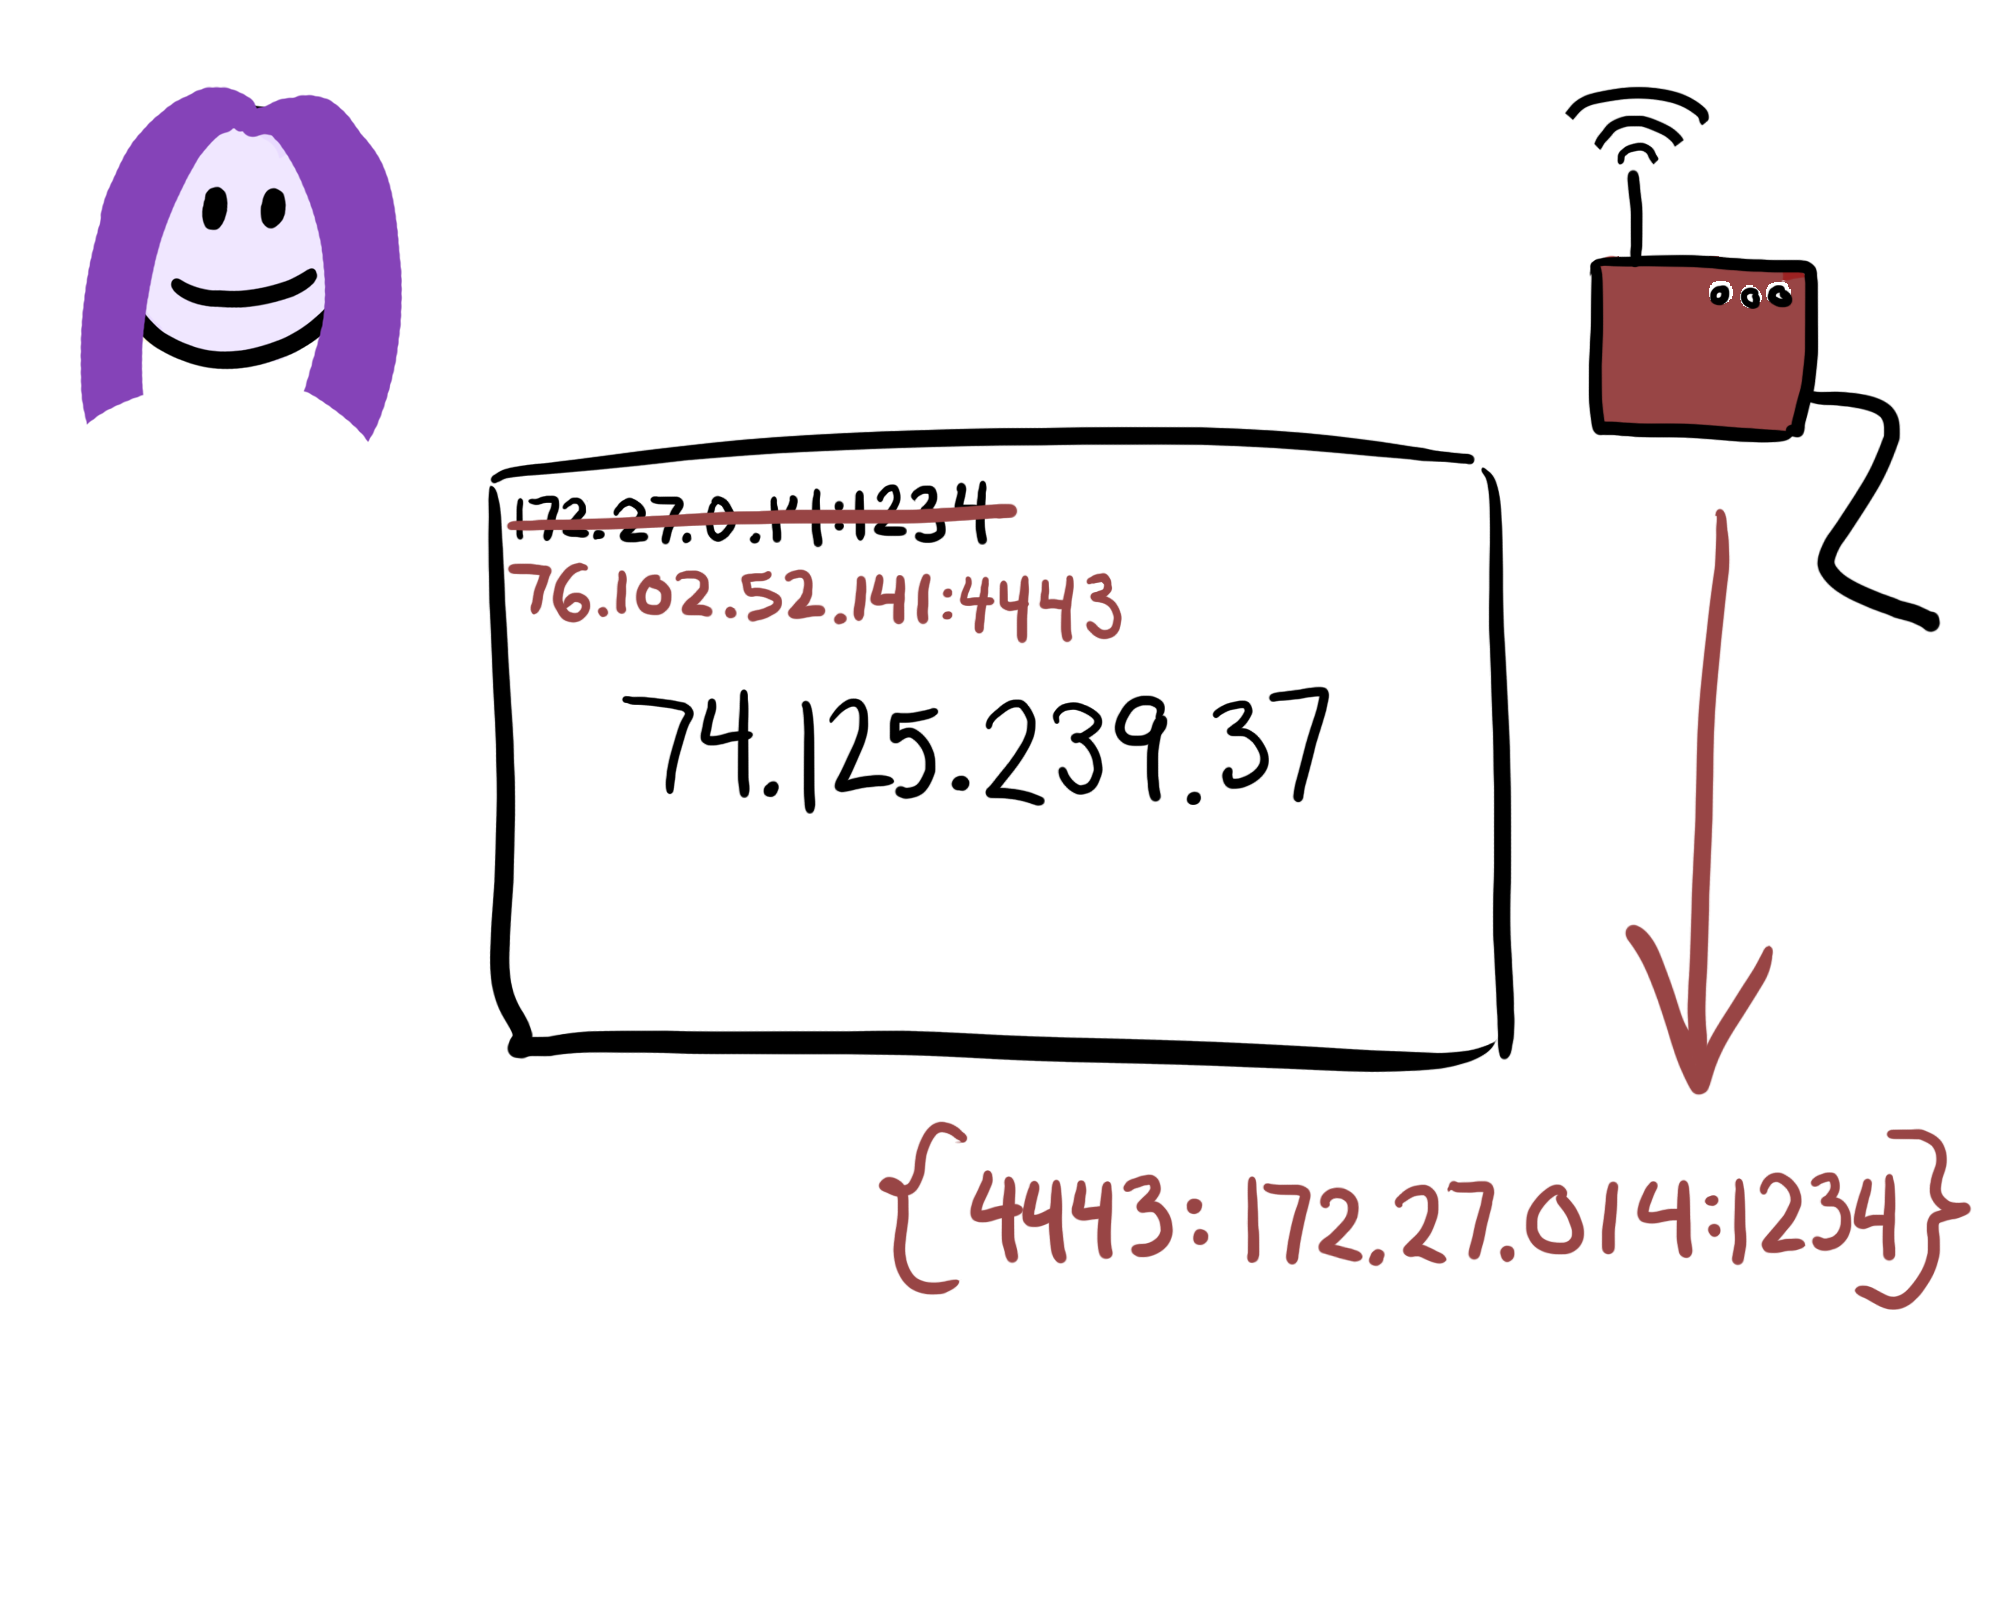
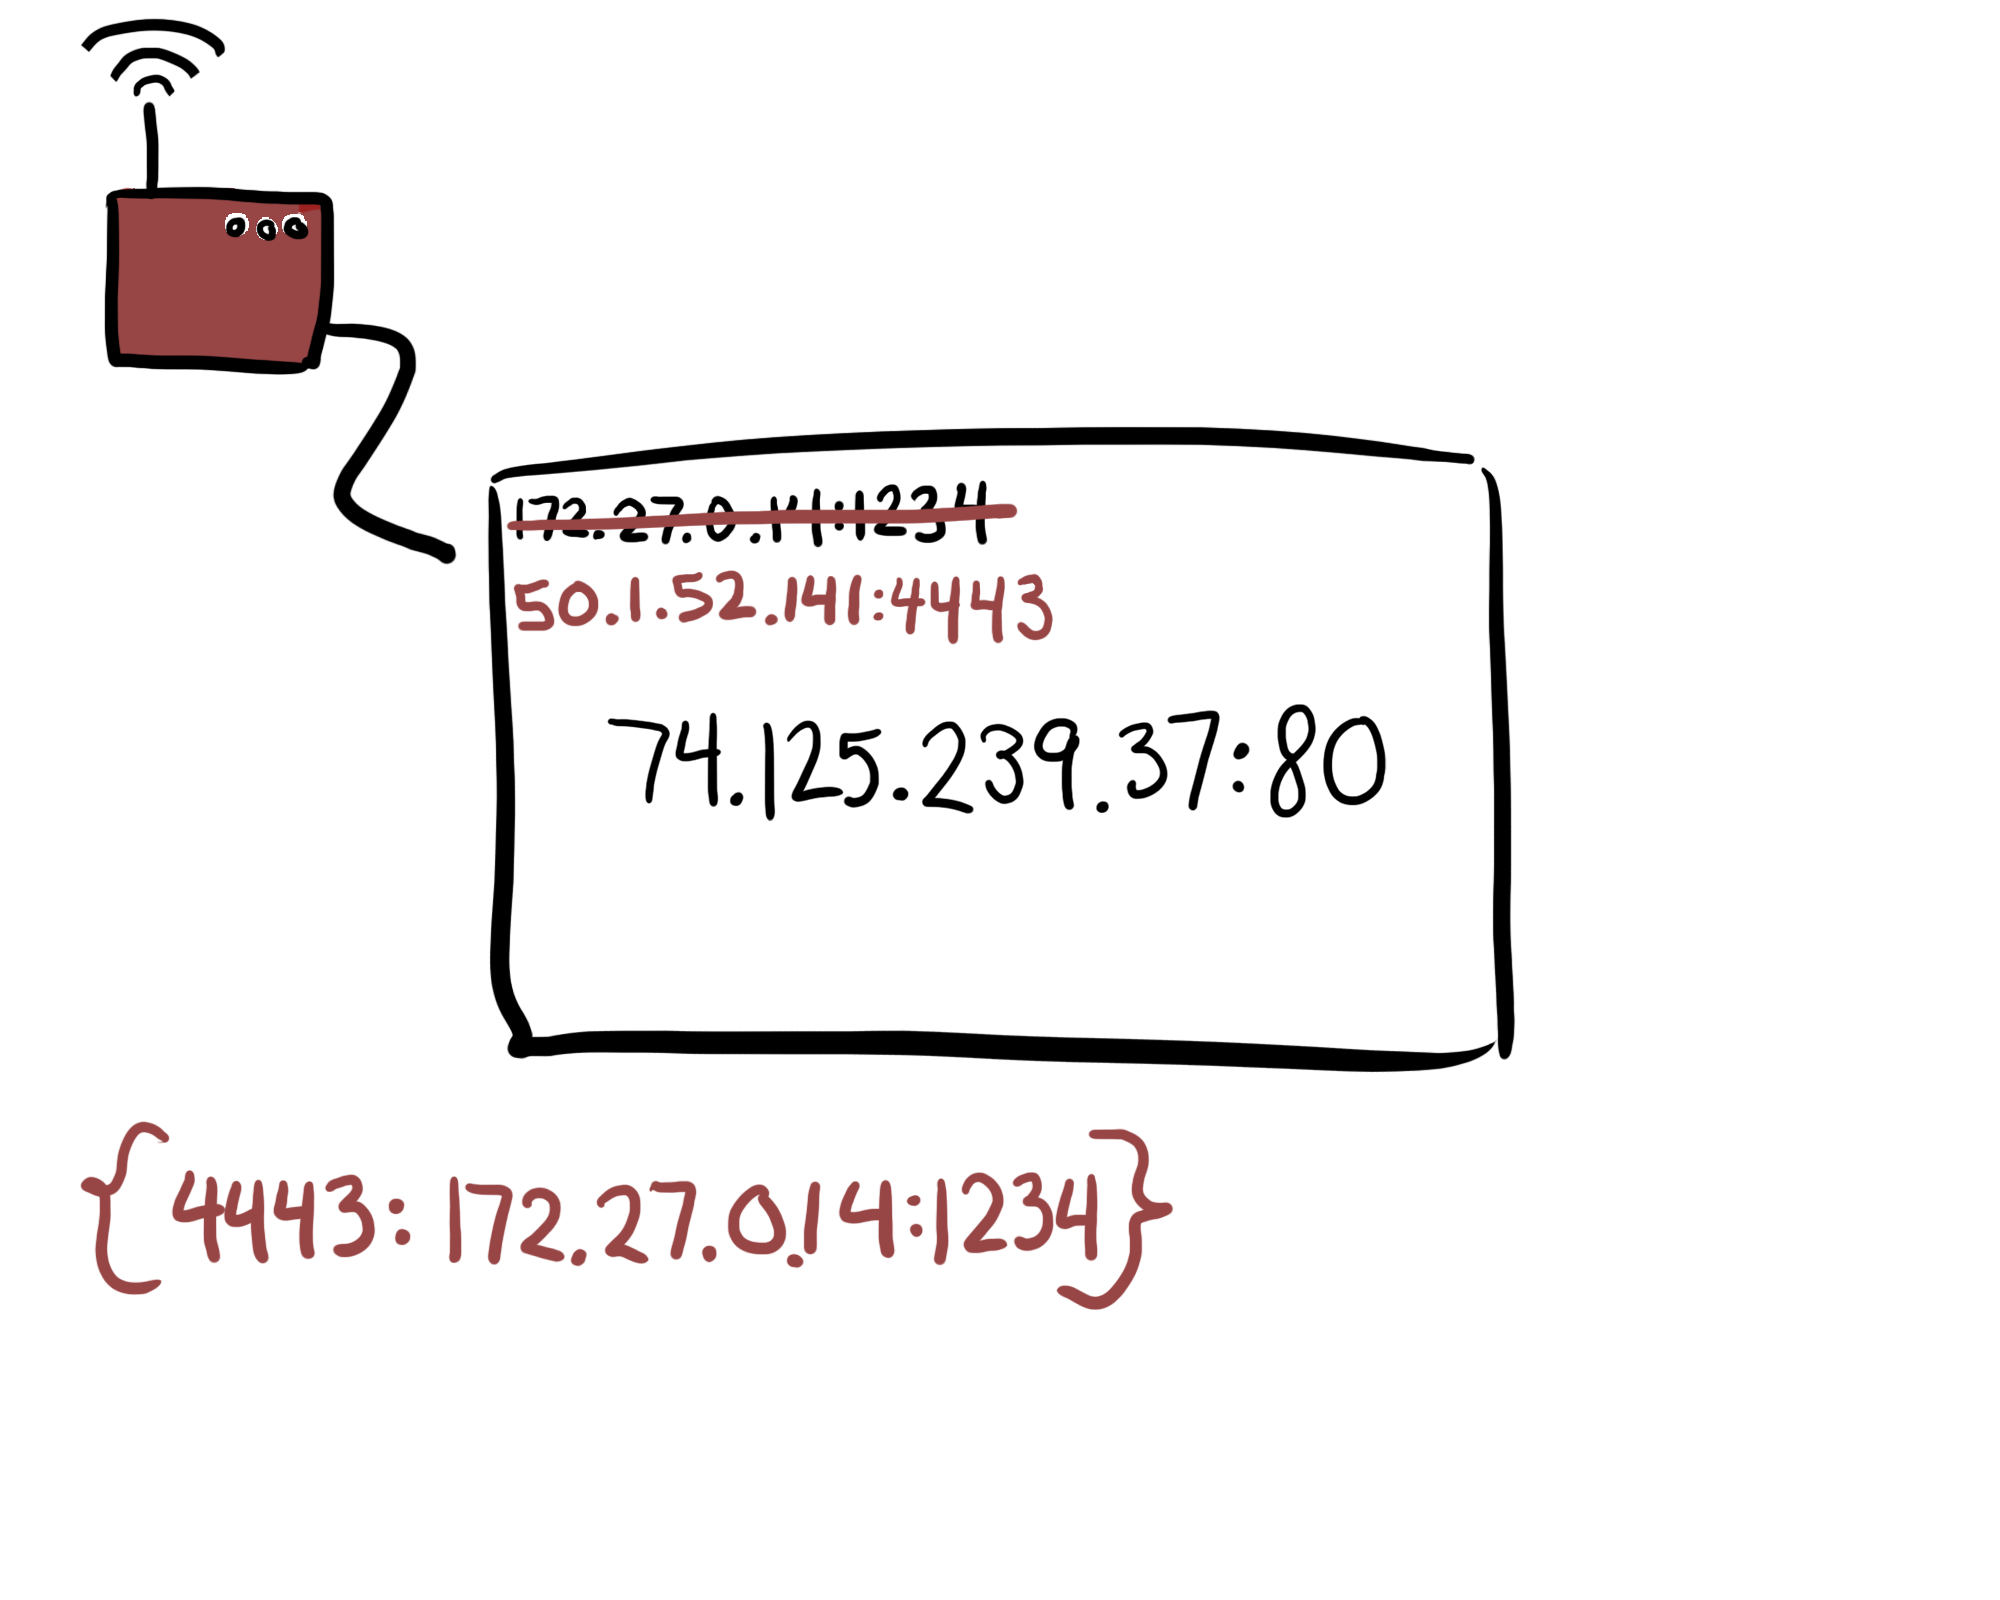
new and improved images/diagrams :)

diff --git a/index.html b/index.html
@@ -254,7 +254,15 @@
     </section>
 
     <section class="slide">
-      <img src="img/ports.png">
+      <img src="img/ports0.png">
+    </section>
+
+    <section class="slide">
+      <img src="img/ports1.png">
+    </section>
+
+    <section class="slide">
+      <img src="img/ports2.png">
     </section>
 
     <section class="slide">
@@ -416,7 +424,7 @@ Serving HTTP on 0.0.0.0 port 8000 ...<br>
     </section>
 
     <section class="slide">
-      (router highlight from nat0)
+      <img src="img/nat-router.png">
     </section>
 
     <section class="slide">
@@ -452,7 +460,7 @@ Serving HTTP on 0.0.0.0 port 8000 ...<br>
     </section>
 
     <section class="slide">
-      <img src="img/nat0.png">
+      <img src="img/nat-sucks.png">
     </section>
 
     <section class="slide">
@@ -652,6 +660,10 @@ Serving HTTP on 0.0.0.0 port 8000 ...<br>
       <div class="vcenter">
         Home port forwarding
       </div>
+    </section>
+
+    <section class="slide">
+        <img src="img/routerforwarding0.png">
     </section>
 
     <section class="slide">

diff --git a/themes/style/my_swiss.css b/themes/style/my_swiss.css
@@ -181,7 +181,7 @@ a:link {
 
 /* End HTML5 Boilerplate adaptations */
 h1 {
-  font-size: 2.5em;
+  font-size: 2em;
   margin-bottom: 1em;
 }
 
@@ -241,7 +241,7 @@ h3 {
 }
 
 h4 {
-  font-size: 1.1em;
+  font-size: .9em;
   font-weight: bold;
   margin-bottom: .25em;
 }
